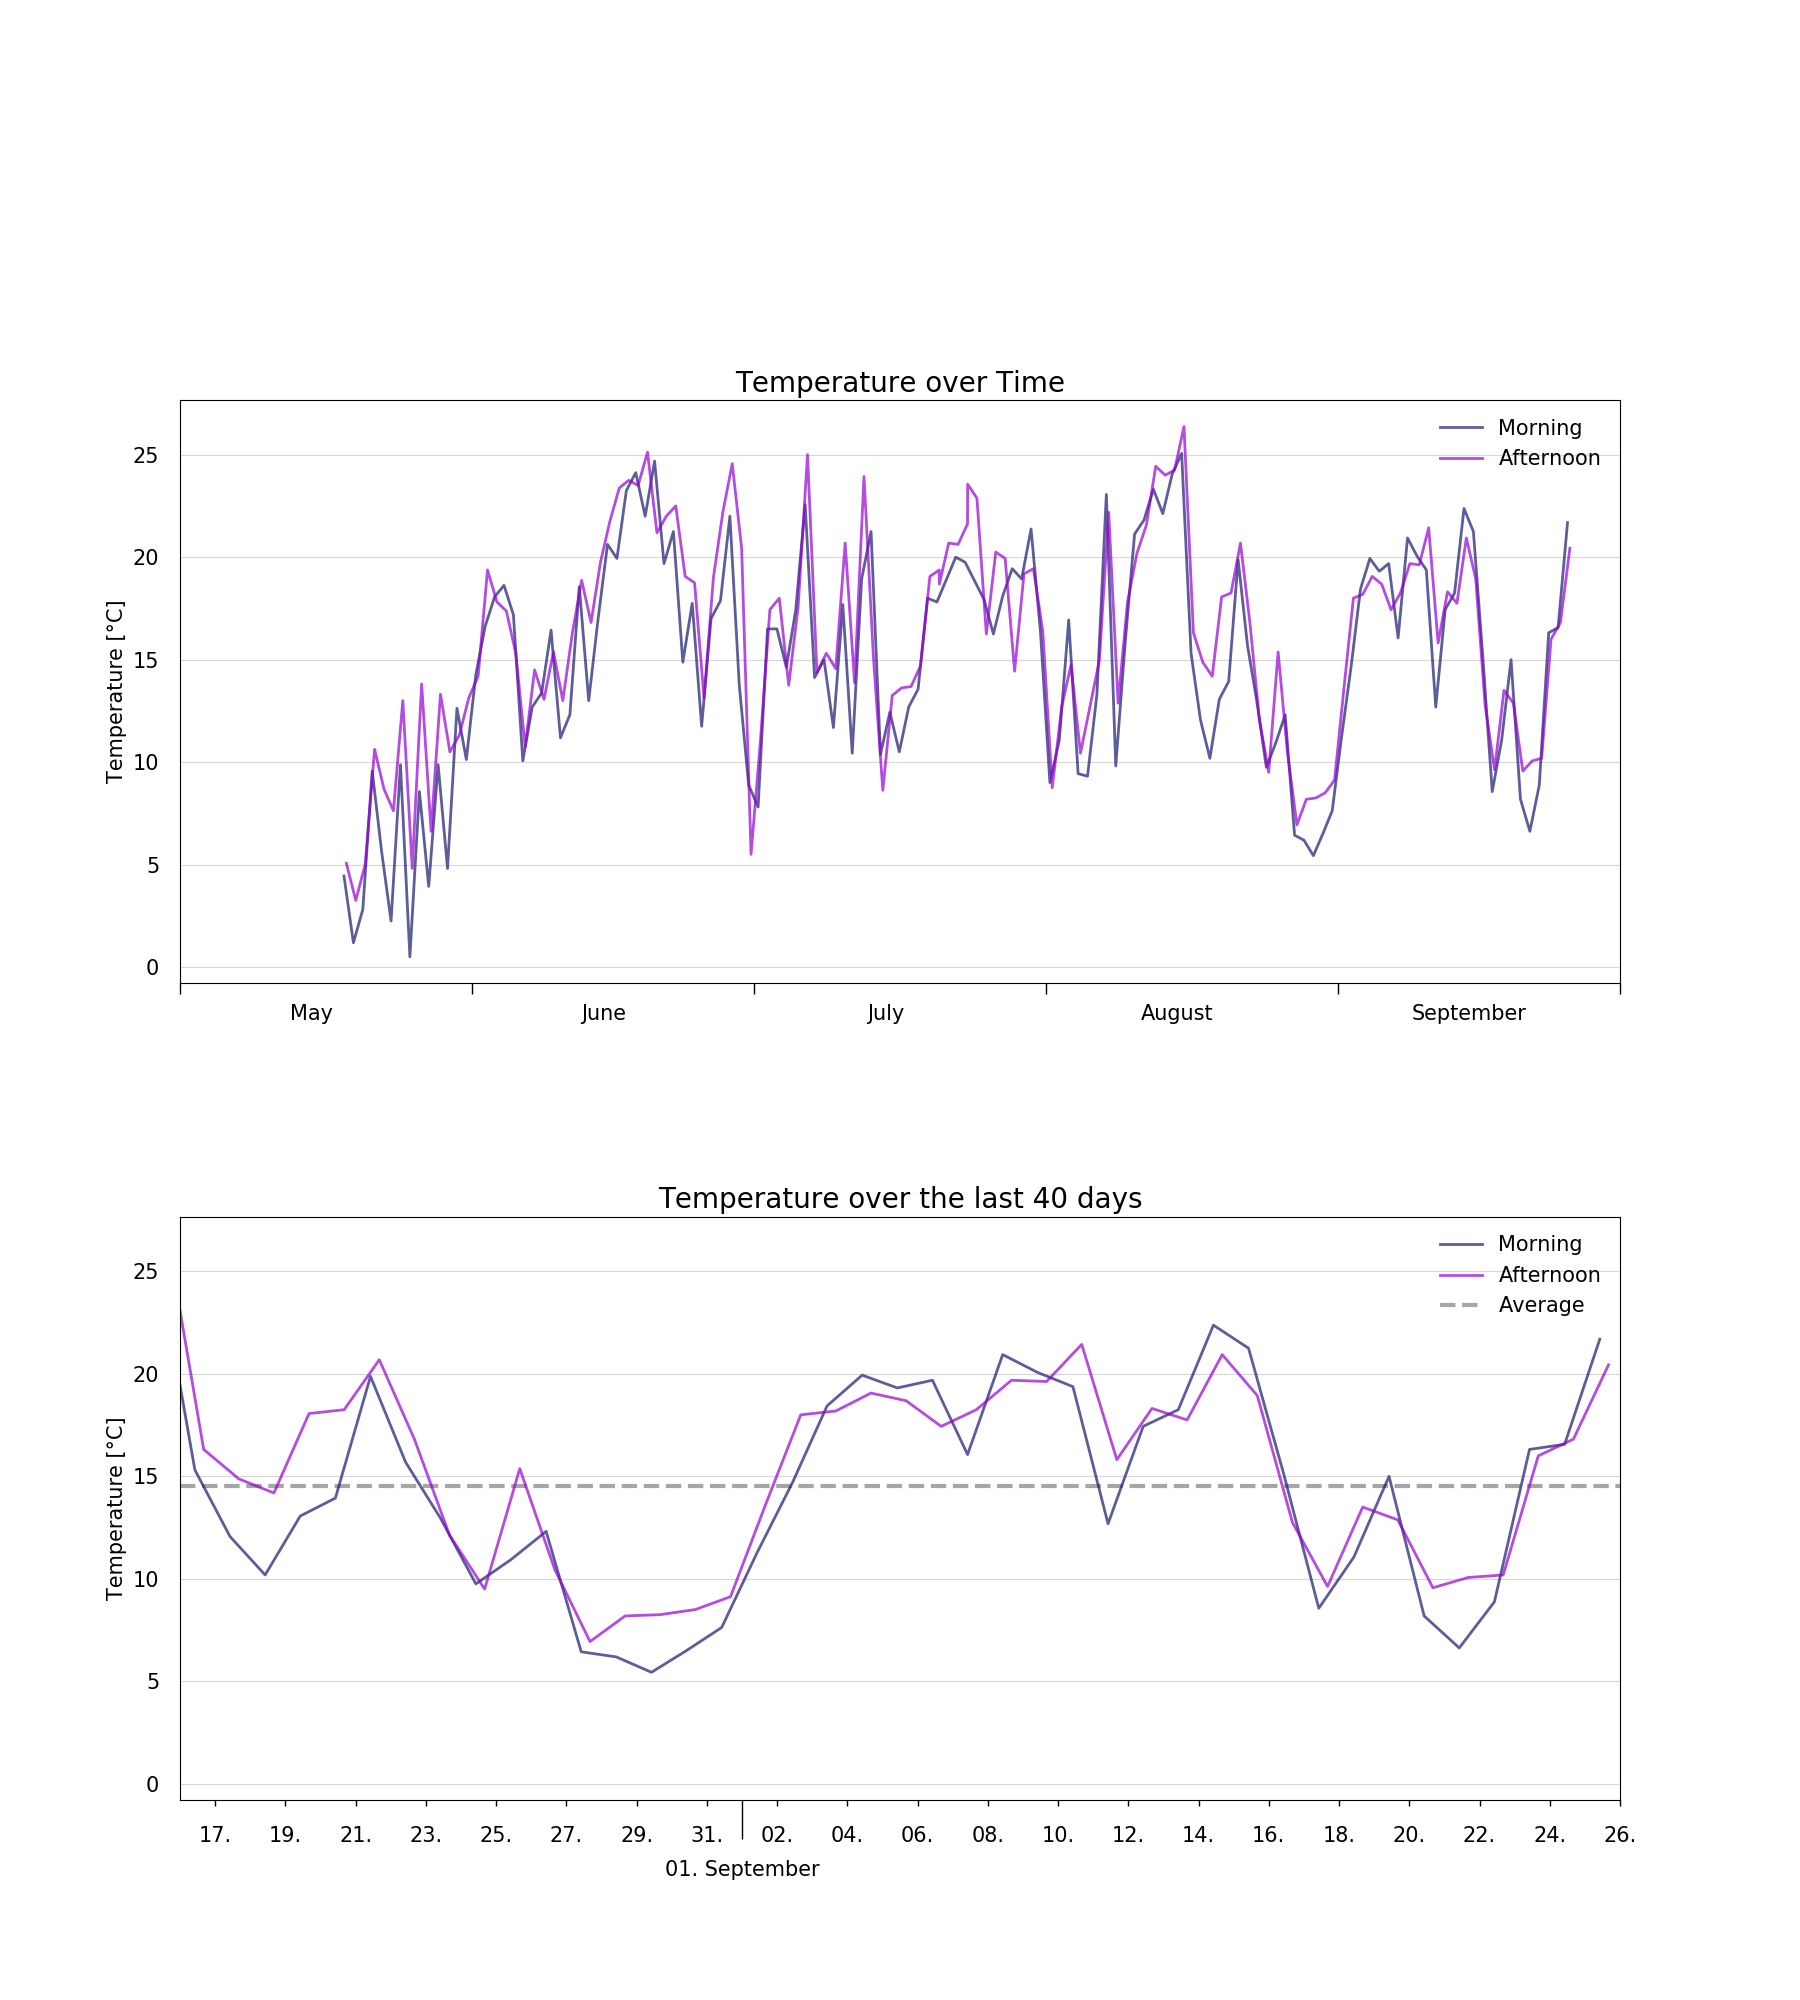
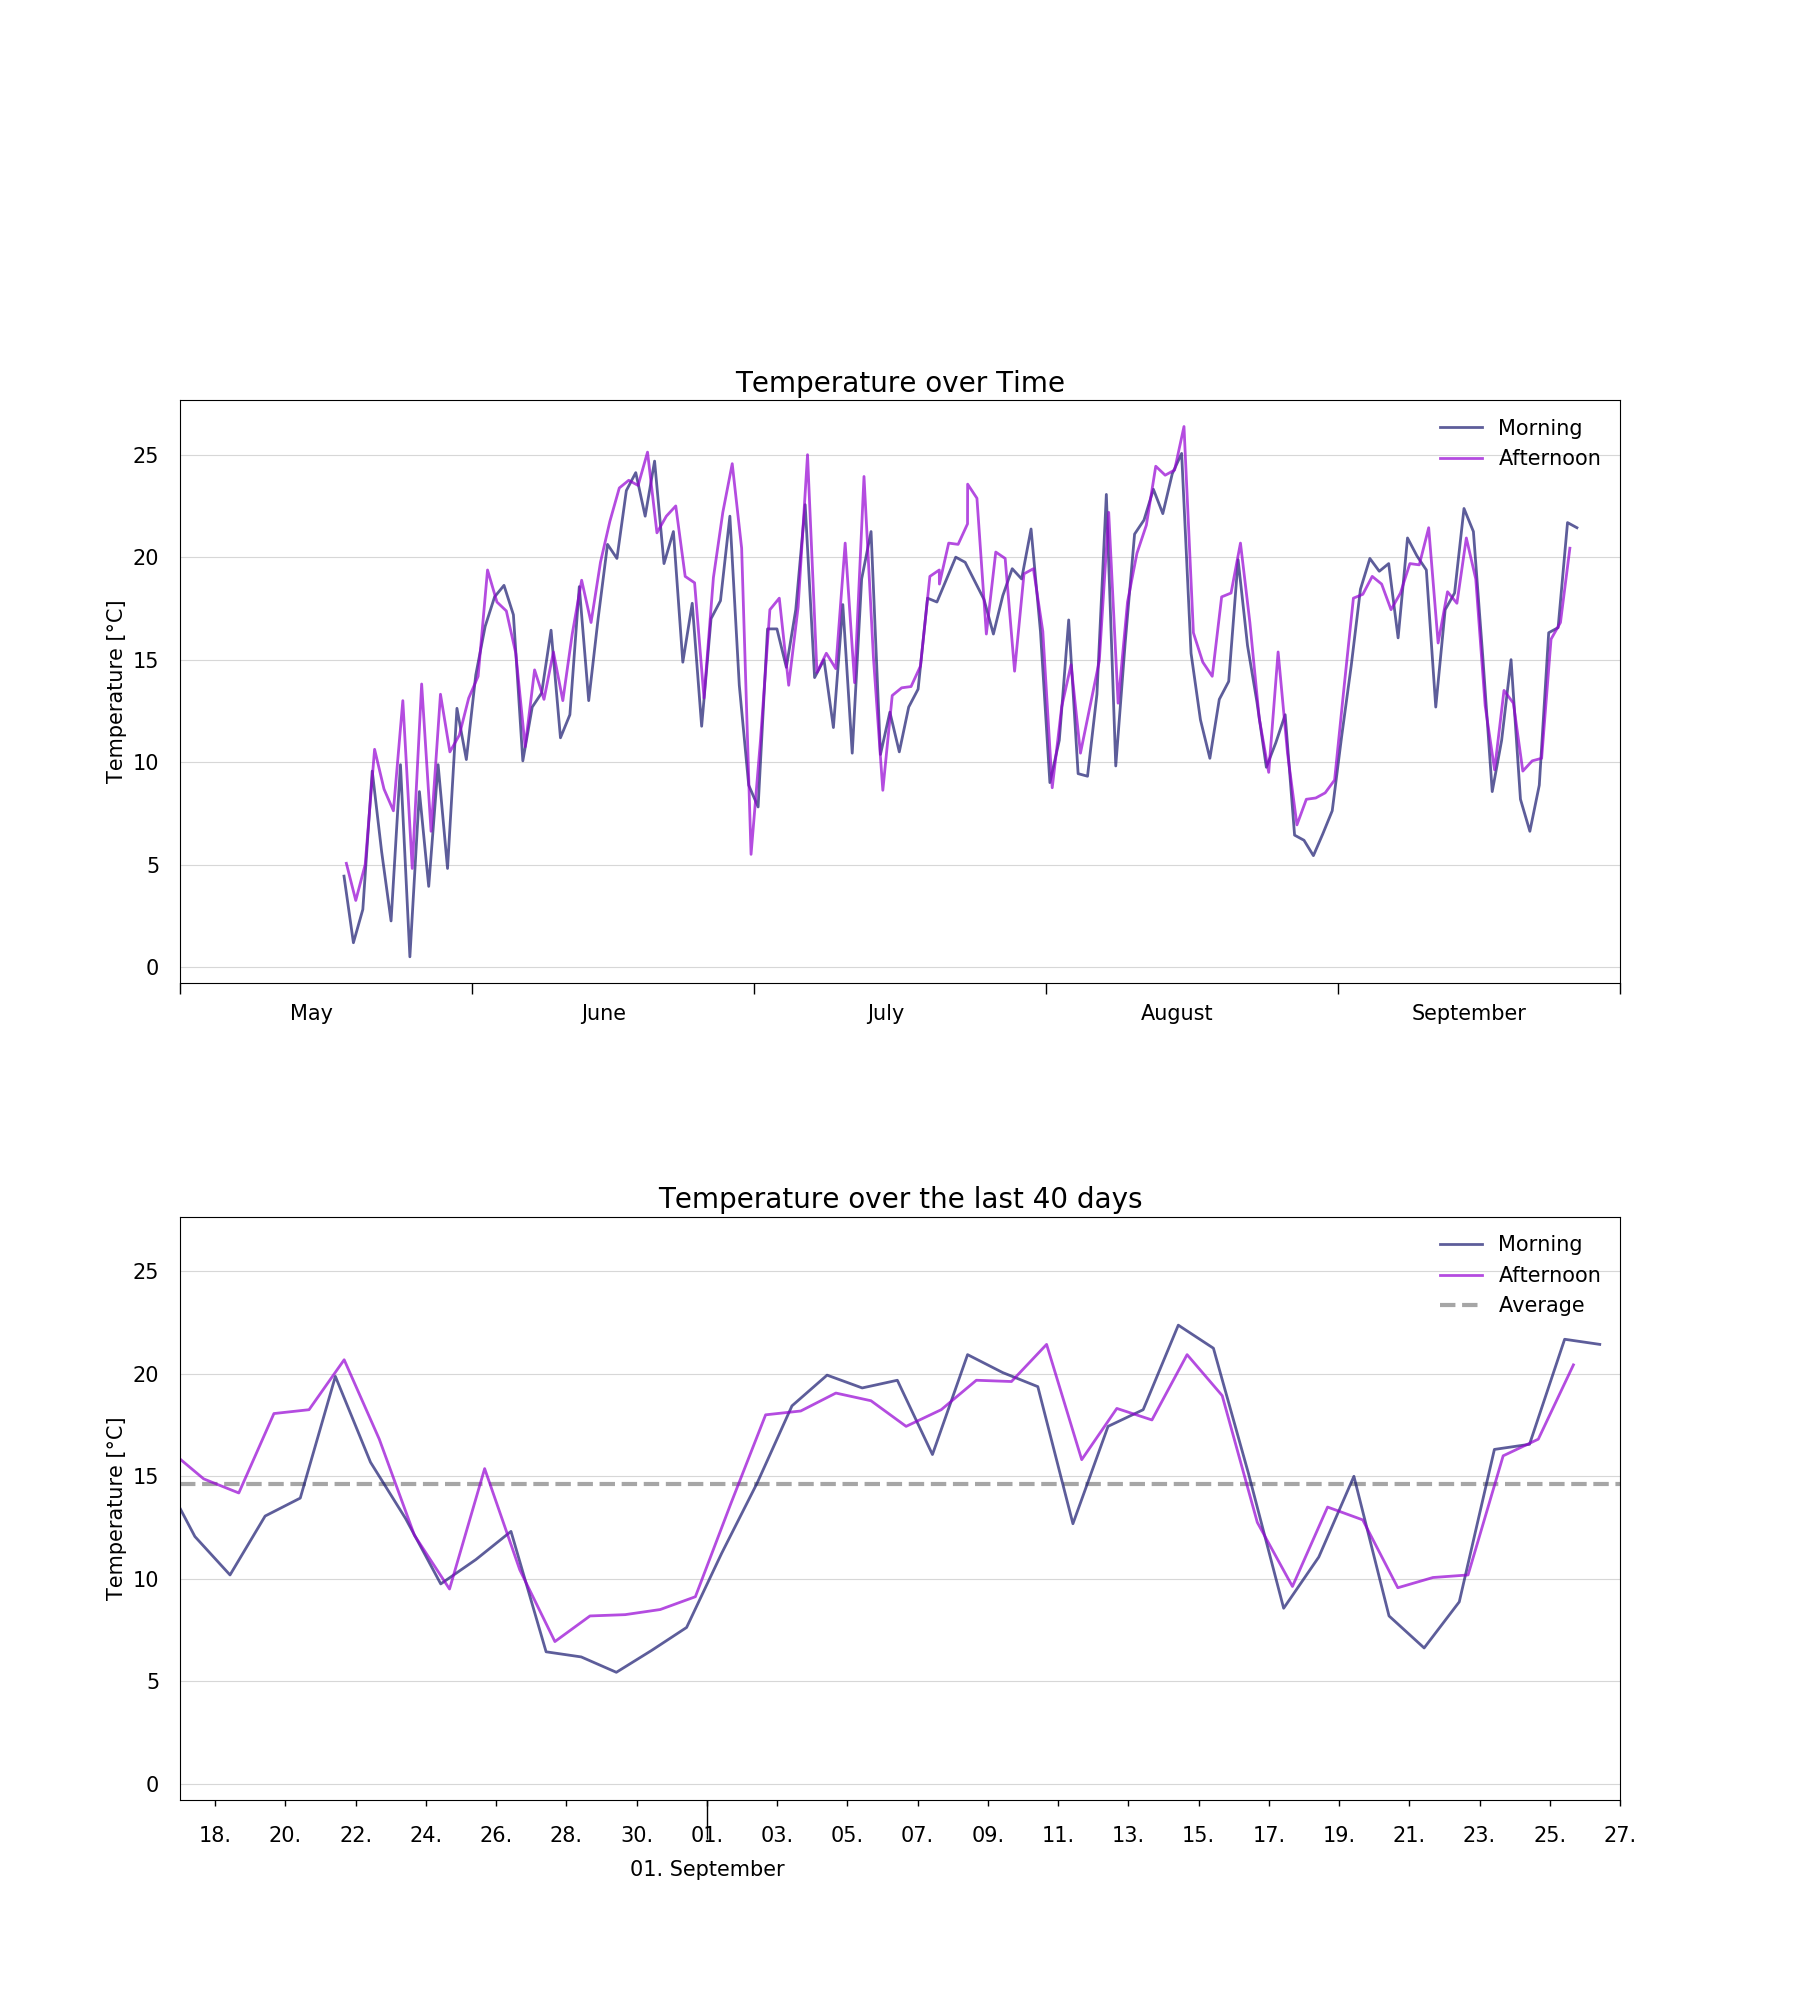
I'm a bot beep boop

Changed region(s): [[0.3111, 0.651, 0.9022, 0.837], [0.0933, 0.682, 0.3111, 0.806], [0.3733, 0.93, 0.4356, 0.961]]

diff --git a/resources/huette.md b/resources/huette.md
@@ -6,13 +6,13 @@ image: '/assets/img/'
 description: 'Live image from the Austrian alps'
 twitter_text: ' '
 ---
-## Latest image from 25 September 2021 at 16:10
+## Latest image from 26 September 2021 at 10:10
 <div class="huette">
   <div class="huette-image">
     <img src="{{ "/assets/img/huette.jpg" | prepend: site.baseurl }}">
   </div>
   <div class="huette-text">
-        <h2>Current Temperature: 20.437°C</h2>
+        <h2>Current Temperature: 21.437°C</h2>
         <p>A solar powered raspberry pi left alone in the wild is sending daily images and temperature data to this website. It should give you an impression about the current weather in the "Brixental".</p>
 
   </div>

diff --git a/rpi-script/huette.md b/rpi-script/huette.md
@@ -6,13 +6,13 @@ image: '/assets/img/'
 description: 'Live image from the Austrian alps'
 twitter_text: ' '
 ---
-## Latest image from 25 September 2021 at 16:10
+## Latest image from 26 September 2021 at 10:10
 <div class="huette">
   <div class="huette-image">
     <img src="{{ "/assets/img/huette.jpg" | prepend: site.baseurl }}">
   </div>
   <div class="huette-text">
-        <h2>Current Temperature: 20.437°C</h2>
+        <h2>Current Temperature: 21.437°C</h2>
         <p>A solar powered raspberry pi left alone in the wild is sending daily images and temperature data to this website. It should give you an impression about the current weather in the "Brixental".</p>
 
   </div>
